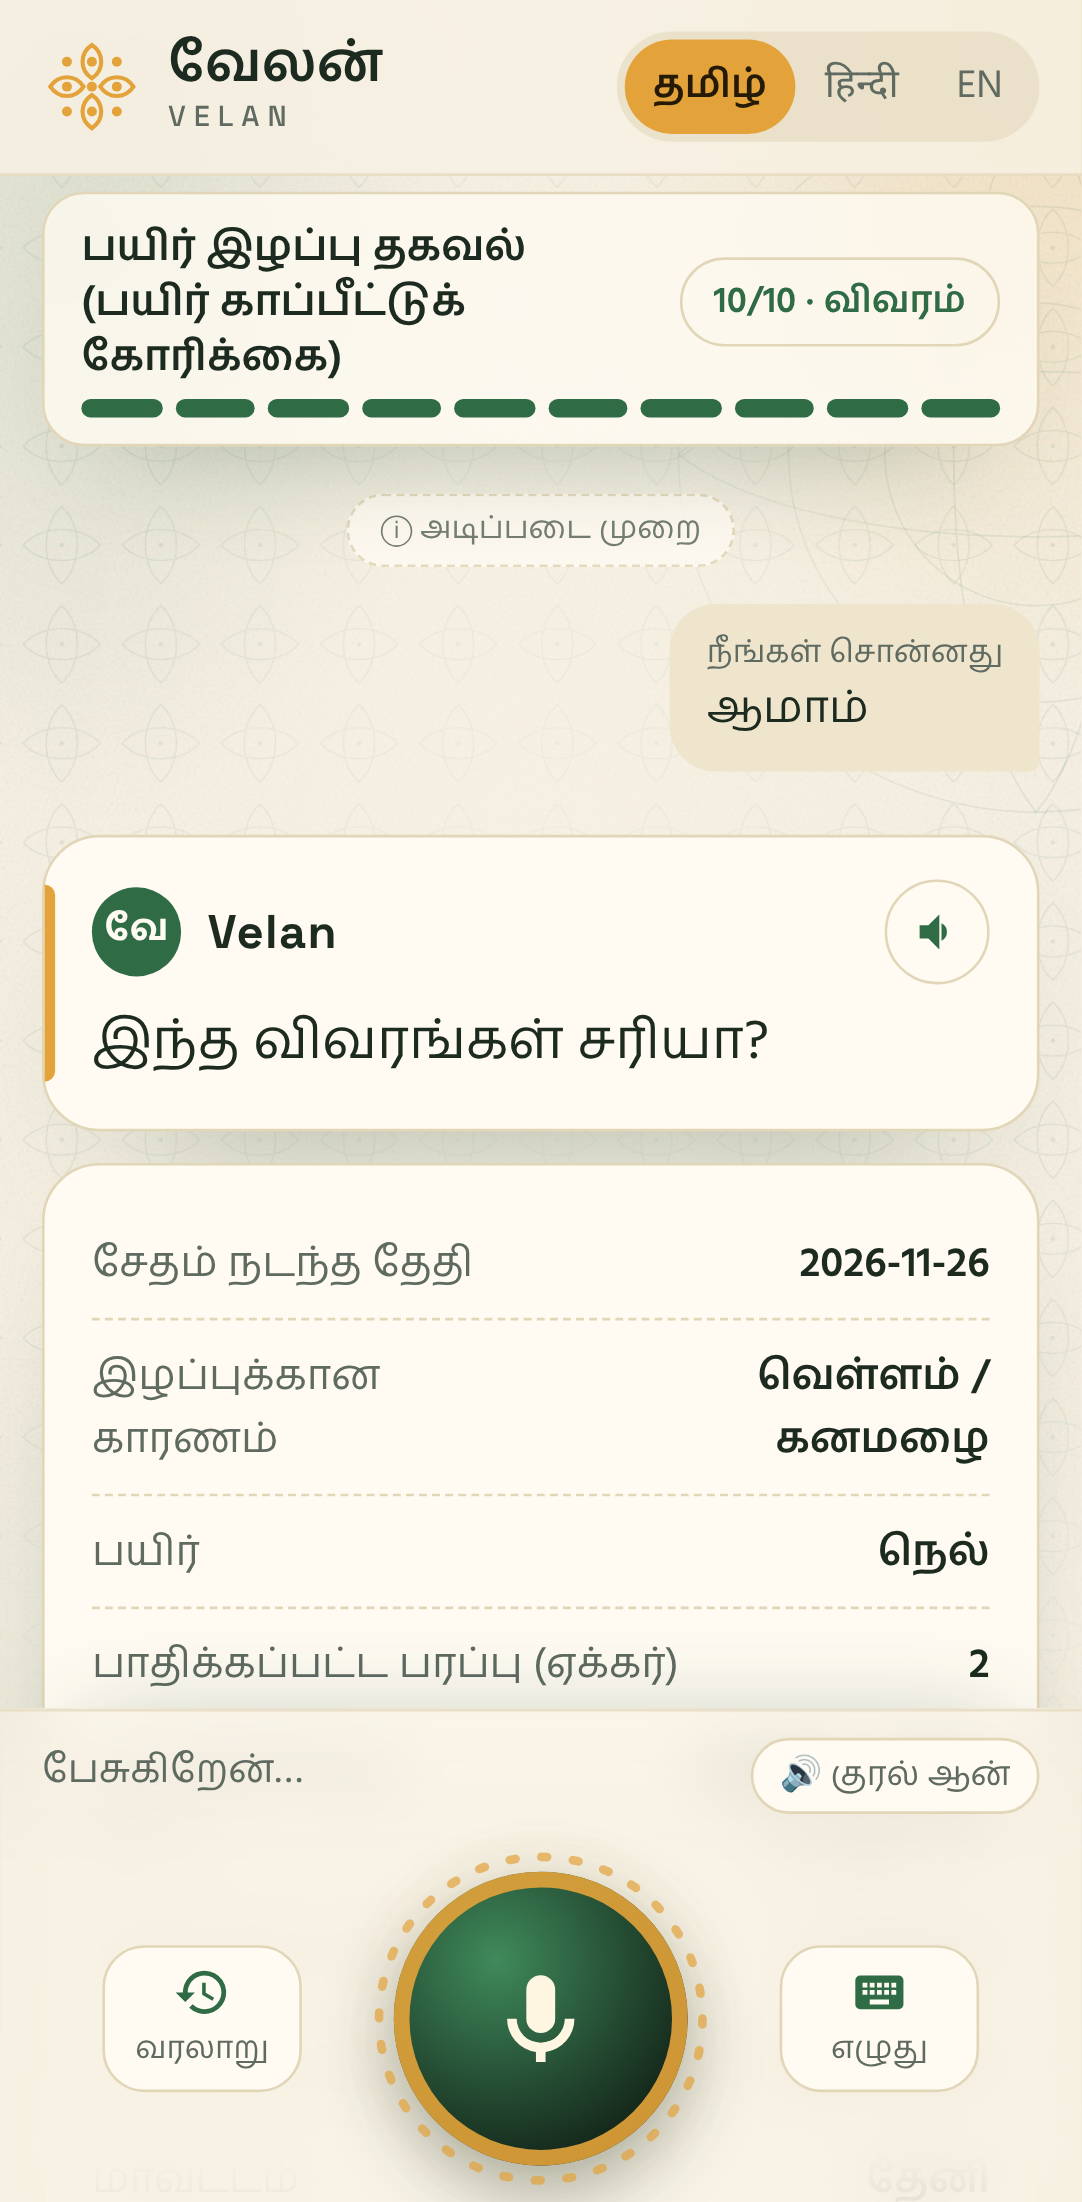
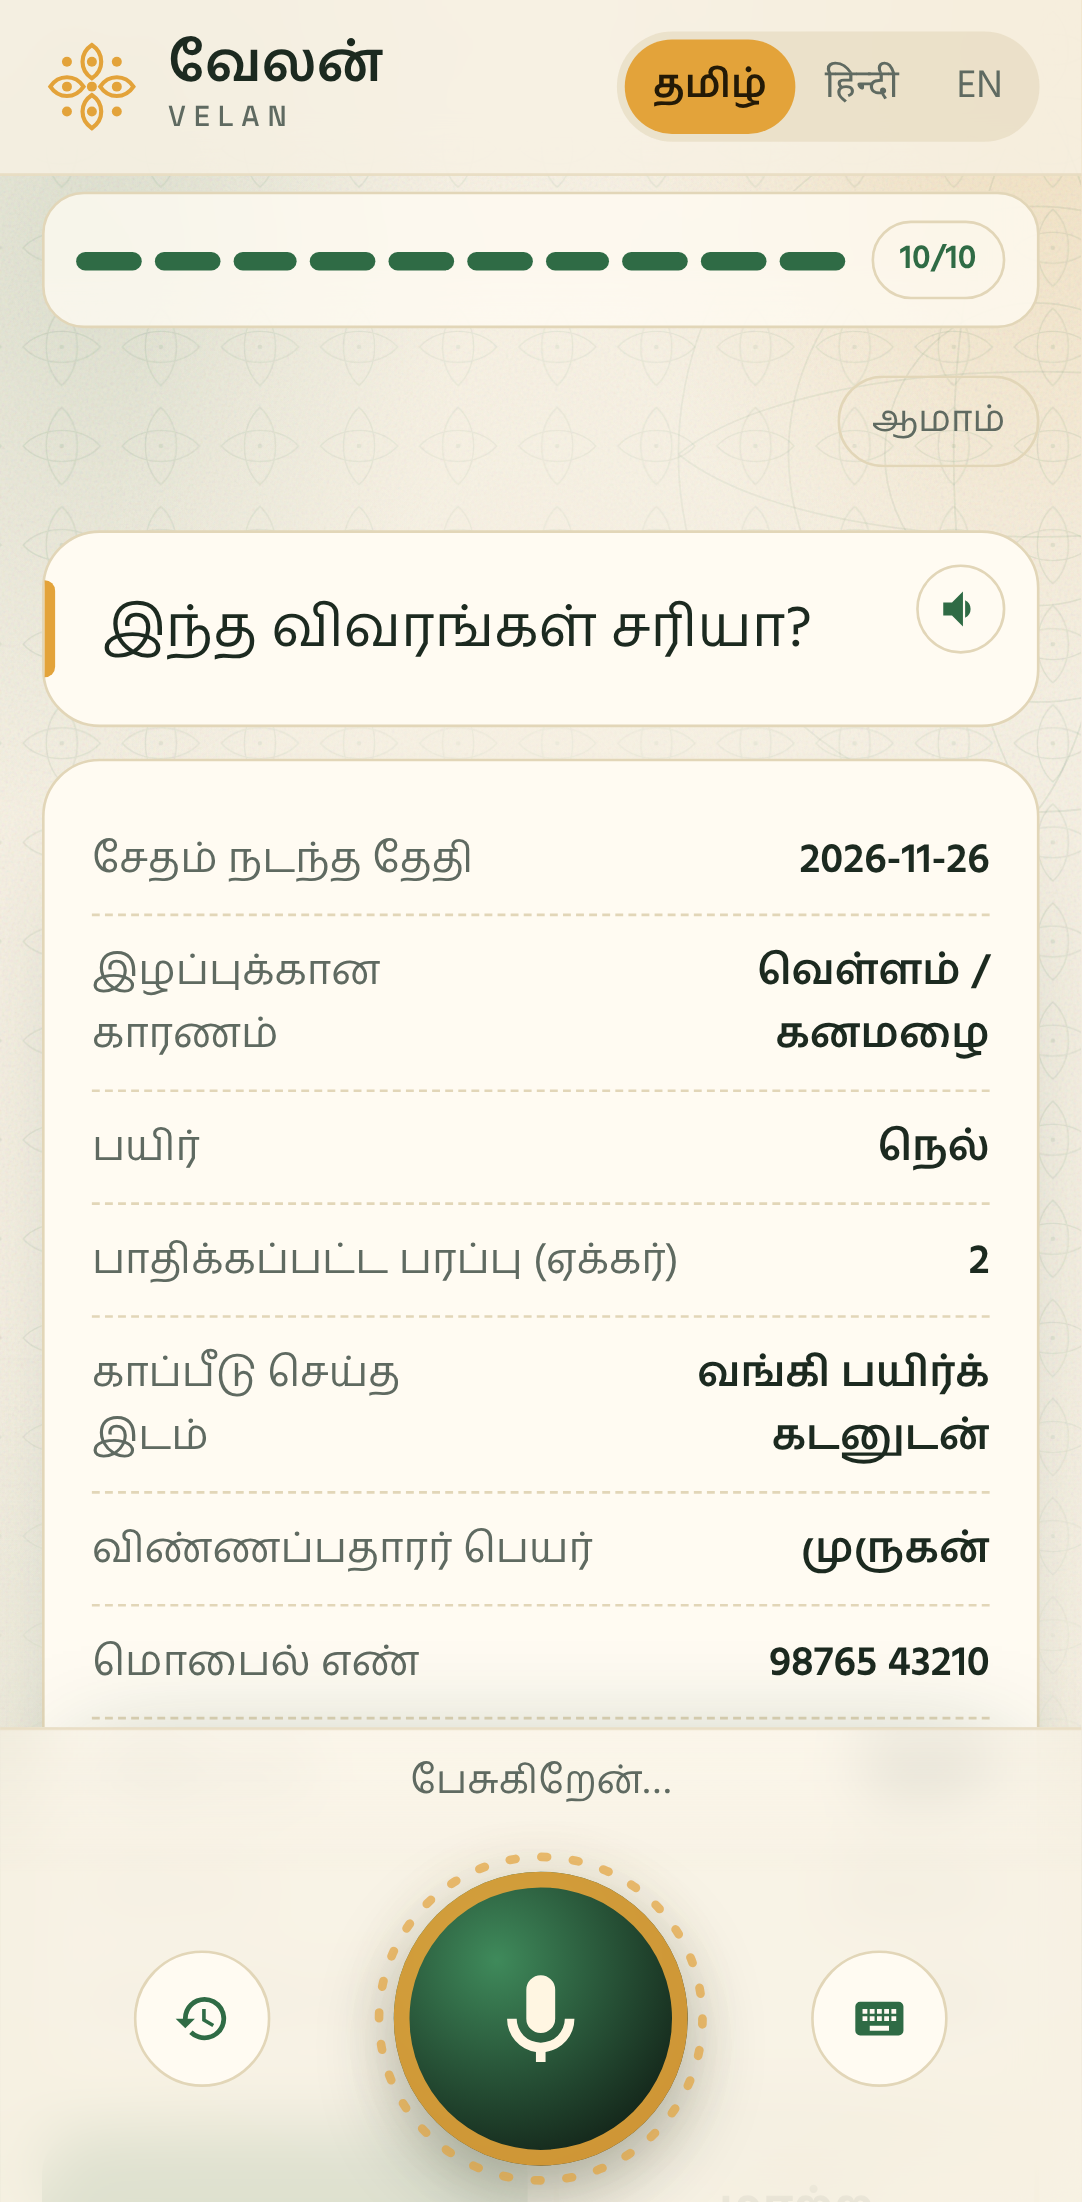
Simplify the screens further
- Home: greeting, one question and a row of light chips (scheme finder
  plus six services), no cards or notices
- Replies show one sentence with "Read more"; the full reply is still
  spoken. The name row and sources line are gone; replay is a small
  icon in the corner
- What you said shows as one small line; the progress bar shows only
  the steps and a count
- Mic dock: the mic and two icon buttons; status text only while
  listening or speaking. Voice on/off and basic-mode note moved into
  the History drawer
- Finished application shows only the receipt card

Claude-Session: https://claude.ai/code/session_01EF6aXxjPbdzoTGbQh3hmJM

diff --git a/web/app.js b/web/app.js
@@ -38,6 +38,7 @@ const UI = {
   apply: { en: "Apply", ta: "விண்ணப்பி", hi: "आवेदन करें" },
   applyFor: { en: "I want to apply for", ta: "நான் விண்ணப்பிக்க வேண்டும்:", hi: "मुझे आवेदन करना है:" },
   findSchemes: { en: "Which schemes can I get?", ta: "எனக்கு எந்தத் திட்டங்கள் கிடைக்கும்?", hi: "मुझे कौन सी योजनाएँ मिल सकती हैं?" },
+  schemesChip: { en: "My schemes", ta: "எனக்கான திட்டங்கள்", hi: "मेरी योजनाएँ" },
   findSchemesSub: { en: "Find out in 9 questions", ta: "9 கேள்விகளில் தெரிந்துகொள்ளுங்கள்", hi: "9 सवालों में जानिए" },
   myApps: { en: "My applications", ta: "என் விண்ணப்பங்கள்", hi: "मेरे आवेदन" },
   sources: { en: "From", ta: "ஆதாரம்", hi: "स्रोत" },
@@ -91,7 +92,7 @@ function localGet(k) { try { return localStorage.getItem(k); } catch { return nu
 function localSet(k, v) { try { localStorage.setItem(k, v); } catch { /* private mode */ } }
 function tr(key) { const v = UI[key]; return v ? (v[state.lang] || v.en) : key; }
 function bcp47() { return state.config?.languages?.[state.lang]?.bcp47 || "ta-IN"; }
-function setLive(key, raw) { live.textContent = raw ?? tr(key); }
+function setLive(key, raw) { live.textContent = key === "tap" ? "" : (raw ?? tr(key)); }
 function el(tag, attrs = {}, ...kids) {
   const n = document.createElement(tag);
   for (const [k, v] of Object.entries(attrs)) {
@@ -139,13 +140,11 @@ async function loadServices() {
 
 function renderTiles() {
   const box = $("#tiles");
+  const chip = (ico, label, say, cls = "") => el("button", { class: `chip ${cls}`, onclick: () => sendText(say) },
+    el("span", { class: "ico", "aria-hidden": "true" }, ico), el("span", {}, label));
   box.replaceChildren(
-    el("button", { class: "tile wide", onclick: () => sendText(tr("findSchemes")) },
-      el("span", { class: "ico", "aria-hidden": "true" }, "✨"),
-      el("span", { class: "t-text" }, el("span", { class: "t-name" }, tr("findSchemes")), el("span", { class: "t-say" }, tr("findSchemesSub")))),
-    ...TILES.map((t) => el("button", { class: "tile", onclick: () => sendText(pick(t.say)) },
-      el("span", { class: "ico", "aria-hidden": "true" }, t.ico),
-      el("span", { class: "t-name" }, pick(t.label)))));
+    chip("✨", tr("schemesChip"), tr("findSchemes"), "main"),
+    ...TILES.slice(0, 6).map((t) => chip(t.ico, pick(t.label), pick(t.say))));
 }
 
 function showHome(on) {
@@ -164,11 +163,11 @@ function showReply(text, { thinking = false, full = null } = {}) {
   const box = $("#replyText");
   box.replaceChildren();
   const parts = sentences(text);
-  if (parts.length <= 2 || thinking) {
+  if (parts.length <= 1 || thinking) {
     box.textContent = text;
   } else {
-    // keep the screen light: two sentences, the rest behind "Read more"
-    const shortText = parts.slice(0, 2).join(" ");
+    // keep the screen light: one sentence, the rest behind "Read more" (all of it is spoken)
+    const shortText = parts[0];
     const more = el("button", { class: "more" }, tr("more"));
     let open = false;
     more.onclick = () => { open = !open; box.firstChild.textContent = open ? text : shortText; more.textContent = open ? tr("less") : tr("more"); };
@@ -187,6 +186,7 @@ function showSaid(text) {
 
 function renderSources(srcs) {
   const box = $("#sources");
+  if (!box) return;
   if (!srcs?.length) { box.hidden = true; return; }
   box.hidden = false;
   box.textContent = `${tr("sources")}: ` + srcs.map((s) => s.title + (s.verified ? "" : ` (${tr("unverified")})`)).join(" · ");
@@ -215,11 +215,9 @@ function renderTask(form) {
     steps.append(el("i", { class: at < form.progress.done ? "done" : (at === form.progress.done && !form.awaiting_confirmation ? "now" : "") }));
   }
   const parts = [
-    el("div", { class: "task-title" }, form.title),
-    el("button", { class: "task-open", onclick: openFormSheet }, `${form.progress.done}/${form.progress.total} · ${tr("details")}`),
     steps,
+    el("button", { class: "task-open", onclick: openFormSheet }, `${form.progress.done}/${form.progress.total}`),
   ];
-  if (current) parts.push(el("div", { class: "task-now" }, `${tr("next")}: ${current.label}`));
   bar.replaceChildren(...parts);
   if (!$("#formSheet").hidden) renderFormSheet();
 }
@@ -309,6 +307,7 @@ async function sendText(text) {
   $("#after").replaceChildren();
   renderConfirm(null);
   renderSources(null);
+  $(".reply").hidden = false;
   showReply(tr("thinking"), { thinking: true });
   state.busy = true;
   app.classList.add("busy");
@@ -323,6 +322,7 @@ async function sendText(text) {
     else if (res.form?.awaiting_confirmation) display = tr("checkDetails");
     else if (evs("eligibility").length) display = tr("schemesFound");
     showReply(display);
+    $(".reply").hidden = evs("application").length > 0;   // the receipt card says it all
     state.lastReply = res.reply;   // the full reply is what gets spoken
     remember("bot", res.reply);
     renderSources(res.events.filter((ev) => ev.type === "sources").pop()?.data);

diff --git a/web/index.html b/web/index.html
@@ -55,7 +55,6 @@
     <section id="task" class="task" hidden></section>
 
     <main class="stage" id="stage">
-      <button id="modeChip" class="mode-chip" hidden></button>
 
       <div id="home" class="home">
         <p class="hello" data-i18n="helloTitle">வணக்கம்!</p>
@@ -67,15 +66,10 @@
         <div class="said" id="said" hidden></div>
         <div id="cards" class="cards"></div>
         <article class="reply" aria-live="polite">
-          <div class="reply-head">
-            <span class="avatar" aria-hidden="true">வே</span>
-            <span class="reply-name">Velan</span>
-            <button id="replay" class="replay" data-i18n-aria="replay" aria-label="Play again">
-              <svg viewBox="0 0 24 24" aria-hidden="true"><path fill="currentColor" d="M4 9v6h4l5 5V4L8 9H4zm12.5 3a4.5 4.5 0 0 0-2.5-4v8a4.5 4.5 0 0 0 2.5-4z"/></svg>
-            </button>
-          </div>
+          <button id="replay" class="replay" data-i18n-aria="replay" aria-label="Play again">
+            <svg viewBox="0 0 24 24" aria-hidden="true"><path fill="currentColor" d="M4 9v6h4l5 5V4L8 9H4zm12.5 3a4.5 4.5 0 0 0-2.5-4v8a4.5 4.5 0 0 0 2.5-4z"/></svg>
+          </button>
           <p id="replyText" class="reply-text"></p>
-          <p id="sources" class="sources" hidden></p>
         </article>
         <div id="after" class="cards"></div>
         <div id="confirm" class="confirm" hidden></div>
@@ -85,13 +79,11 @@
     <footer class="dock">
       <div class="live-row">
         <p id="live" class="live" aria-live="polite"></p>
-        <button id="speakToggle" class="speak-toggle" aria-pressed="true"></button>
       </div>
       <div class="wave" aria-hidden="true"><i></i><i></i><i></i><i></i><i></i><i></i><i></i></div>
       <div class="dock-row">
         <button id="historyBtn" class="side-btn" data-i18n-aria="history" aria-label="History">
           <svg viewBox="0 0 24 24" aria-hidden="true"><path fill="currentColor" d="M13 3a9 9 0 0 0-9 9H1l4 4 4-4H6a7 7 0 1 1 2.05 4.95l-1.42 1.42A9 9 0 1 0 13 3zm-1 5v5l4.25 2.52.77-1.28-3.52-2.09V8H12z"/></svg>
-          <span data-i18n="historyShort">History</span>
         </button>
         <button id="mic" class="mic" data-i18n-aria="speak" aria-label="Speak">
           <svg class="ring" viewBox="0 0 120 120" aria-hidden="true"><circle cx="60" cy="60" r="56"/></svg>
@@ -99,7 +91,6 @@
         </button>
         <button id="kbBtn" class="side-btn" data-i18n-aria="type" aria-label="Type">
           <svg viewBox="0 0 24 24" aria-hidden="true"><path fill="currentColor" d="M20 5H4a2 2 0 0 0-2 2v10a2 2 0 0 0 2 2h16a2 2 0 0 0 2-2V7a2 2 0 0 0-2-2zm-9 3h2v2h-2V8zm0 3h2v2h-2v-2zM8 8h2v2H8V8zm0 3h2v2H8v-2zm-1 2H5v-2h2v2zm0-3H5V8h2v2zm9 7H8v-2h8v2zm0-4h-2v-2h2v2zm0-3h-2V8h2v2zm3 3h-2v-2h2v2zm0-3h-2V8h2v2z"/></svg>
-          <span data-i18n="typeShort">Type</span>
         </button>
       </div>
       <form id="textForm" class="text-form" hidden>
@@ -116,6 +107,10 @@
         <button class="close" data-close="history" aria-label="Close">✕</button>
       </div>
       <div id="historyList" class="history-list"></div>
+      <div class="settings">
+        <button id="speakToggle" class="speak-toggle" aria-pressed="true"></button>
+        <button id="modeChip" class="mode-chip" hidden></button>
+      </div>
       <div class="sheet-actions">
         <button id="myAppsBtn" class="btn ghost" data-i18n="myApps">My applications</button>
         <button id="newChat" class="btn ghost" data-i18n="newChat">Start again</button>

diff --git a/web/style.css b/web/style.css
@@ -320,3 +320,35 @@ button { font: inherit; color: inherit; cursor: pointer; }
 .follow { margin: 0 0 8px; color: var(--muted); font-size: 15px; }
 .extra summary { cursor: pointer; color: var(--leaf); font-weight: 600; font-size: 15px; margin-top: 4px; }
 .extra p { font-size: 15px; }
+
+/* ---------- simplest layout ---------- */
+.home { align-items: center; text-align: center; padding-top: 8vh; gap: 4px; }
+.hello { font-size: 34px; font-weight: 500; }
+.hello-sub { margin-bottom: 28px; }
+.tiles { display: flex; flex-wrap: wrap; justify-content: center; gap: 10px; max-width: 460px; }
+.chip { display: inline-flex; align-items: center; gap: 8px; border: 1px solid color-mix(in srgb, var(--line) 85%, transparent);
+  background: color-mix(in srgb, var(--card) 80%, transparent); border-radius: 999px; padding: 8px 16px 8px 8px; font-size: 16px; color: var(--ink);
+  box-shadow: 0 10px 24px -20px rgba(21, 60, 37, .5); animation: rise .8s var(--ease-out) both; }
+.chip .ico { width: 30px; height: 30px; border-radius: 50%; display: grid; place-items: center; font-size: 16px; background: color-mix(in srgb, var(--turmeric-soft) 70%, transparent); }
+.chip.main { background: color-mix(in srgb, var(--turmeric-soft) 75%, var(--card)); border-color: color-mix(in srgb, var(--turmeric) 40%, transparent); font-weight: 600; }
+.chip:nth-child(2) { animation-delay: .06s; } .chip:nth-child(3) { animation-delay: .12s; } .chip:nth-child(4) { animation-delay: .18s; }
+.chip:nth-child(5) { animation-delay: .24s; } .chip:nth-child(6) { animation-delay: .30s; } .chip:nth-child(7) { animation-delay: .36s; }
+
+.said { font-size: 14px; padding: 6px 12px; max-width: 80%; white-space: nowrap; overflow: hidden; text-overflow: ellipsis; background: transparent; color: var(--muted); border: 1px solid var(--line); border-radius: 999px; }
+.said::before { content: none; }
+.reply { padding: 20px 52px 20px 22px; }
+.reply .replay { position: absolute; top: 12px; right: 12px; width: 34px; height: 34px; }
+.reply-text { font-size: 22px; }
+
+.task { grid-template-columns: 1fr auto; padding: 10px 12px; gap: 10px; }
+.task .steps { grid-column: auto; }
+.task-open { min-height: 30px; padding: 2px 10px; font-size: 13px; }
+
+.live { text-align: center; }
+.live-row { grid-template-columns: 1fr; min-height: 22px; }
+.side-btn { min-width: 52px; width: 52px; min-height: 52px; border-radius: 50%; }
+.side-btn svg { width: 22px; height: 22px; }
+.dock-row { grid-template-columns: 1fr auto 1fr; }
+
+.settings { display: flex; flex-wrap: wrap; gap: 8px; margin-bottom: 12px; }
+.settings .mode-chip { align-self: auto; }

diff --git a/web/sw.js b/web/sw.js
@@ -1,5 +1,5 @@
 // Caches the app shell so it opens instantly on weak networks. API calls always go to the network.
-const CACHE = "velan-v5";
+const CACHE = "velan-v6";
 const SHELL = ["/", "/index.html", "/style.css", "/app.js", "/icon.svg", "/manifest.json"];
 self.addEventListener("install", (e) => e.waitUntil(caches.open(CACHE).then((c) => c.addAll(SHELL))));
 self.addEventListener("activate", (e) => e.waitUntil(
